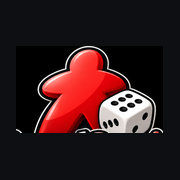
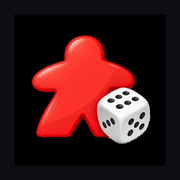
V18

Changed region(s): [[0.1667, 0.1944, 0.9167, 0.8056], [0.0833, 0.6944, 0.1389, 0.75]]

diff --git a/sw.js b/sw.js
@@ -1,5 +1,24 @@
-const CACHE = 'boardscoring-v17';
-const ASSETS = ['./','index.html','styles.css','app.js','manifest.webmanifest','logo-transparent.png','app-icon.png', 'apple-touch-icon.png', 'logo-horizontal.png', 'logo-home.png'];
-self.addEventListener('install',e=>e.waitUntil(caches.open(CACHE).then(c=>c.addAll(ASSETS))));
-self.addEventListener('activate',e=>e.waitUntil(Promise.all([caches.keys().then(keys=>Promise.all(keys.filter(k=>k!==CACHE).map(k=>caches.delete(k)))),self.clients.claim()])));
-self.addEventListener('fetch',e=>{if(e.request.method!=='GET')return;e.respondWith(fetch(e.request).then(resp=>{const copy=resp.clone();caches.open(CACHE).then(c=>c.put(e.request,copy));return resp;}).catch(()=>caches.match(e.request).then(r=>r||caches.match('./'))));});
+const CACHE = 'boardscoring-v18';
+const ASSETS = ['./', 'index.html', 'styles.css', 'app.js', 'manifest.webmanifest', 'logo-home.png', 'logo-horizontal.png', 'logo-transparent.png', 'icon-192.png', 'icon-512.png', 'apple-touch-icon.png'];
+
+self.addEventListener('install', event => {
+  event.waitUntil(caches.open(CACHE).then(cache => cache.addAll(ASSETS)));
+});
+
+self.addEventListener('activate', event => {
+  event.waitUntil(self.clients.claim());
+});
+
+self.addEventListener('fetch', event => {
+  if (event.request.method !== 'GET') return;
+  event.respondWith(
+    caches.match(event.request).then(cached => {
+      if (cached) return cached;
+      return fetch(event.request).then(response => {
+        const copy = response.clone();
+        caches.open(CACHE).then(cache => cache.put(event.request, copy));
+        return response;
+      }).catch(() => caches.match('./'));
+    })
+  );
+});

diff --git a/index.html b/index.html
@@ -4,10 +4,13 @@
   <meta charset="utf-8" />
   <meta name="viewport" content="width=device-width,initial-scale=1,viewport-fit=cover" />
   <meta name="theme-color" content="#0d0f12" />
+  <meta name="apple-mobile-web-app-capable" content="yes" />
+  <meta name="apple-mobile-web-app-status-bar-style" content="black-translucent" />
   <title>BoardScoring</title>
   <link rel="manifest" href="manifest.webmanifest" />
-  <link rel="icon" href="app-icon.png" type="image/png" />
+  <link rel="icon" href="icon-192.png" sizes="192x192" type="image/png" />
   <link rel="apple-touch-icon" sizes="180x180" href="apple-touch-icon.png" />
+  <link rel="apple-touch-icon-precomposed" sizes="180x180" href="apple-touch-icon.png" />
   <link rel="stylesheet" href="styles.css" />
 </head>
 <body>
@@ -18,7 +21,7 @@
         <p class="hero-subtitle">Un compteur de points pratique<br>pour tous vos jeux</p>
         <button class="primary-btn hero-btn" id="launchSetupBtn">Lancer une partie</button>
       </div>
-      <p class="version-note version-note-bottom">Version 17 - by Xa!</p>
+      <p class="version-note version-note-bottom">Version 18 - by Xa!</p>
     </section>
 
     <section class="setup-screen hidden" id="setupScreen">

diff --git a/README.md b/README.md
@@ -1,10 +1,15 @@
-# BoardScoring v17
+# BoardScoring v18
 
-## Correction iPhone
-- icône d'écran d'accueil recréée au bon format carré
-- proportions du meeple et du dé conservées
-- ajout d'une icône Apple dédiée en 180×180
-- suppression du recadrage précédent qui déformait le logo
-- version affichée : **Version 17 - by Xa!**
+## Correction icône iPhone
+- l'icône iPhone a été entièrement refaite à partir du **meeple + dé uniquement**
+- suppression du recadrage horizontal qui donnait un effet **étiré vers le haut**
+- nouvelles icônes carrées `icon-192.png`, `icon-512.png` et `apple-touch-icon.png`
+- version affichée : **Version 18 - by Xa!**
 
-Après mise à jour, il faut supprimer l'ancienne icône BoardScoring de l'écran d'accueil de l'iPhone, puis l'ajouter à nouveau depuis Safari pour que la nouvelle icône soit prise en compte.
+## Important sur iPhone
+Après mise à jour, il faut :
+1. supprimer l'ancienne icône BoardScoring de l'écran d'accueil ;
+2. ouvrir le site dans Safari ;
+3. l'ajouter à nouveau à l'écran d'accueil.
+
+Sinon iOS continue souvent d'utiliser l'ancienne icône en cache.
